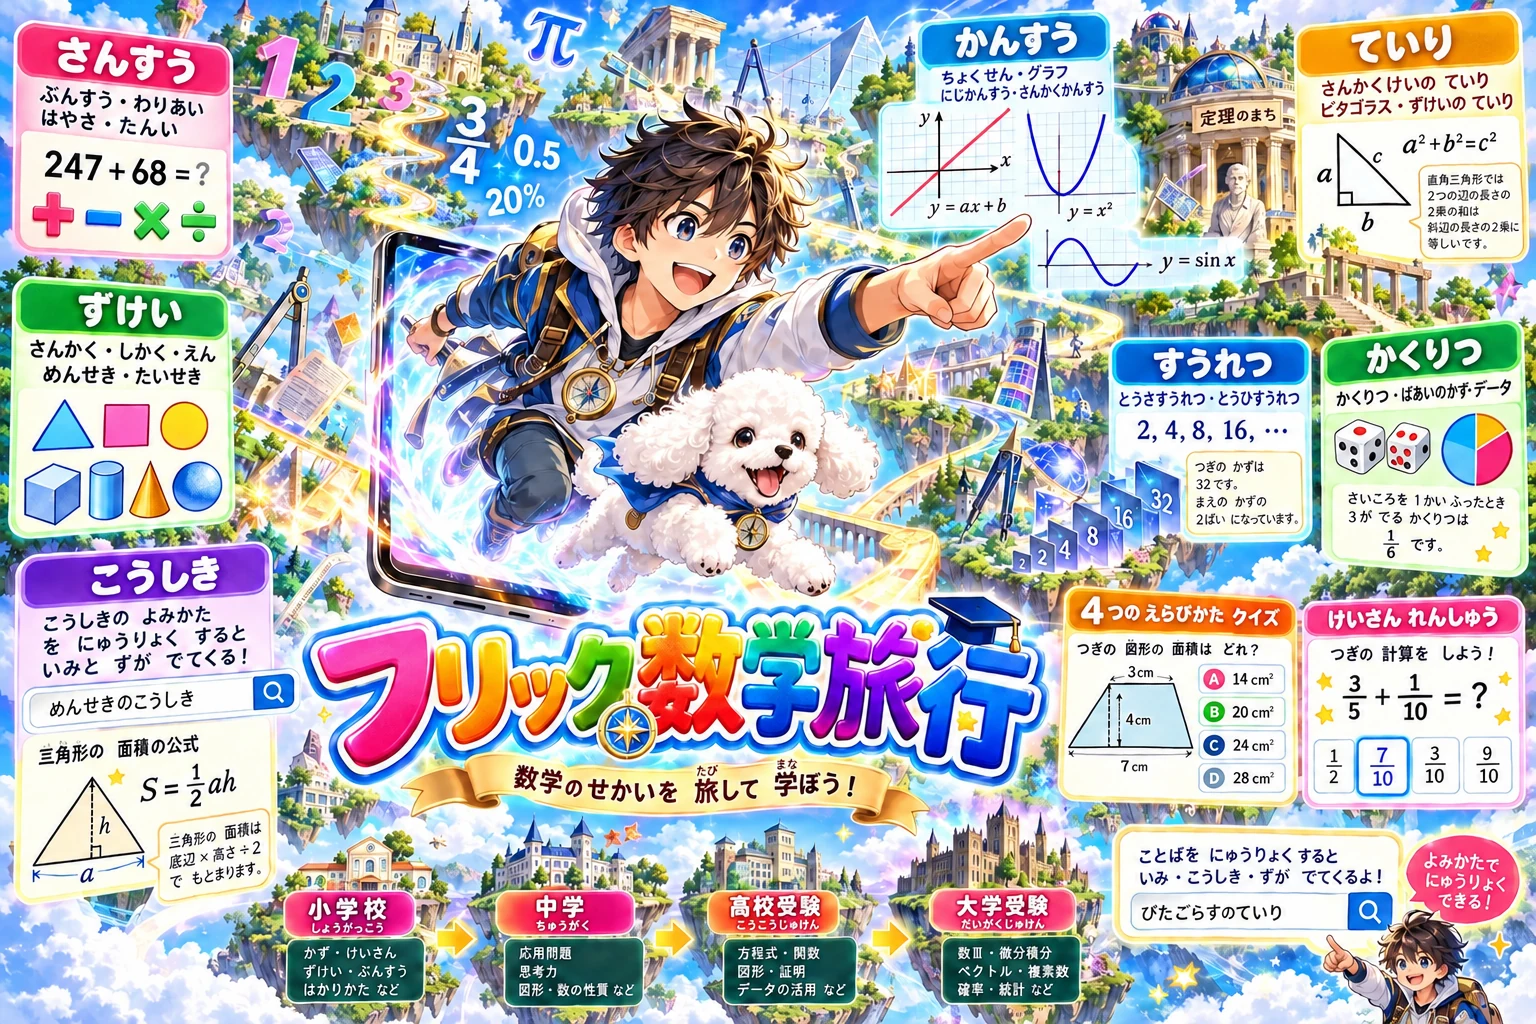
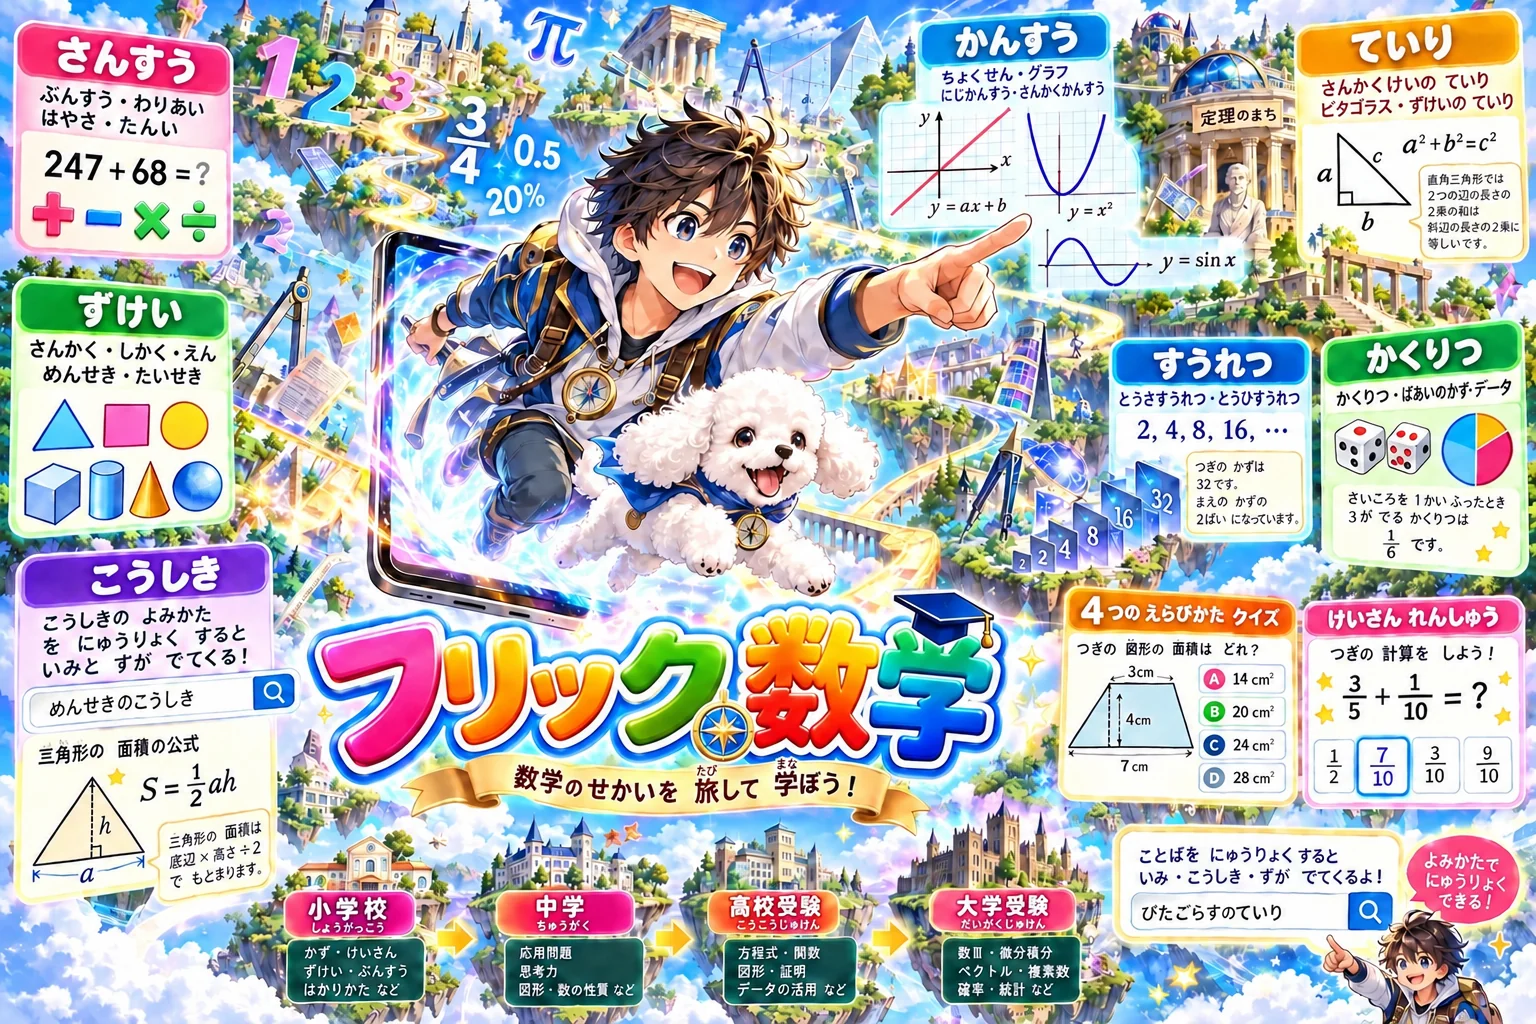
フリック数学: トップの 絵の 題名を「フリック数学」に(けいくんの ChatGPT の 絵)
Claude-Session: https://claude.ai/code/session_011SmHRfS48asPXBze6LzYiU

diff --git a/sugaku/index.html b/sugaku/index.html
@@ -424,11 +424,11 @@ ruby.nm rt{font-size:10px;font-weight:500;color:var(--muted);letter-spacing:.02e
          読みあげソフトには かくして、下の <h1> が 名前を言う -->
     <div class="logo">
       <img class="logo-mark" src="logo-mark2.webp?v=1" alt="" width="144" height="144" aria-hidden="true">
-      <img class="logo-word" src="logo-word.webp?v=5" alt="" width="900" height="226" aria-hidden="true">
+      <img class="logo-word" src="logo-word.webp?v=6" alt="" width="900" height="226" aria-hidden="true">
       <button class="prof-btn" id="prof-btn" aria-label="マイページ"><span class="nm"></span><span class="tile sm sk-card" id="prof-tile">?</span></button>
     </div>
     <h1 class="sr-only">フリック数学旅行</h1>
-    <img class="hero" src="hero.webp?v=5" alt="フリック数学旅行。数式と 図形の 浮かぶ 空の 島を 男の子と 犬が 飛んで 旅する 絵" width="1536" height="1024">
+    <img class="hero" src="hero.webp?v=6" alt="フリック数学旅行。数式と 図形の 浮かぶ 空の 島を 男の子と 犬が 飛んで 旅する 絵" width="1536" height="1024">
     <p class="lead" id="lead">世界と日本の名所・地名・首都を、ひらがなでどれだけ速く打てるか。10問のトータルタイムで勝負しながら、旅に出よう。</p>
     <div class="modes" id="modes"></div>
     <div id="kabu-panel"></div><!-- 株式フリック旅行だけ: 集めた会社・称号(kabu/kabu.js) -->

diff --git a/tools/build_games.py b/tools/build_games.py
@@ -78,7 +78,7 @@ GAMES = {
     #   絵(2026-09-28): トップの 絵 = 2回目の 絵(1回目は「たいせき・たいせき」「にじゅうかんすう」「ひすう」「ばいすう」「中学受験」が まちがいで 入れなかった)。
     #   題名 = tools/sugaku/logo_cut.py で 切りぬいた(2026-09-28 に ふちを 作りなおした。けいくん「左上の字が切れてる」)/ アイコン = 四角い 絵を 縮めた もの
     "sugaku": dict(name="フリック数学旅行", modes="SUGAKU", kinds=set(), color="#1971c2", hero=True, logo=True,
-                   art=dict(word=(900, 226), hero=(1536, 1024), alt="フリック数学旅行。数式と 図形の 浮かぶ 空の 島を 男の子と 犬が 飛んで 旅する 絵", iconv=1, wordv=5),
+                   art=dict(word=(900, 226), hero=(1536, 1024), alt="フリック数学旅行。数式と 図形の 浮かぶ 空の 島を 男の子と 犬が 飛んで 旅する 絵", iconv=1, wordv=6),
                    lead="算数・数学の 用語・公式・定理を、ひらがなで フリック入力。打つと その ことばの 意味と 図が 出るよ。小学校の 算数から はじめて、高校受験・大学受験の 範囲の めやすまで。公式は 読みあげの 形で 打つよ。4択クイズと 計算問題で 受験の 練習も できるよ。",
                    how="表示された ひらがなを、そのまま打ち写してね。1回は かならず 10問。どのステージも いつも同じ10問なので、タイムをくらべられるよ。「公式を打つ」ことばは a²+b²=c² を「えーのにじょう たす …」のように 読みあげで 打つよ。説明と 計算問題は 本物の 入試問題では ないので、受験の 勉強には 学校の 教科書や 問題集も 使ってね。",
                    rule="ルール：予測変換は使わずに、自分の指で打ち切ろう。あそぶほど、数学の ことばと 図が つながって 見えてくるよ。大学入試センター・文部科学省・各都道府県の 教育委員会とは 関係ありません。"),
